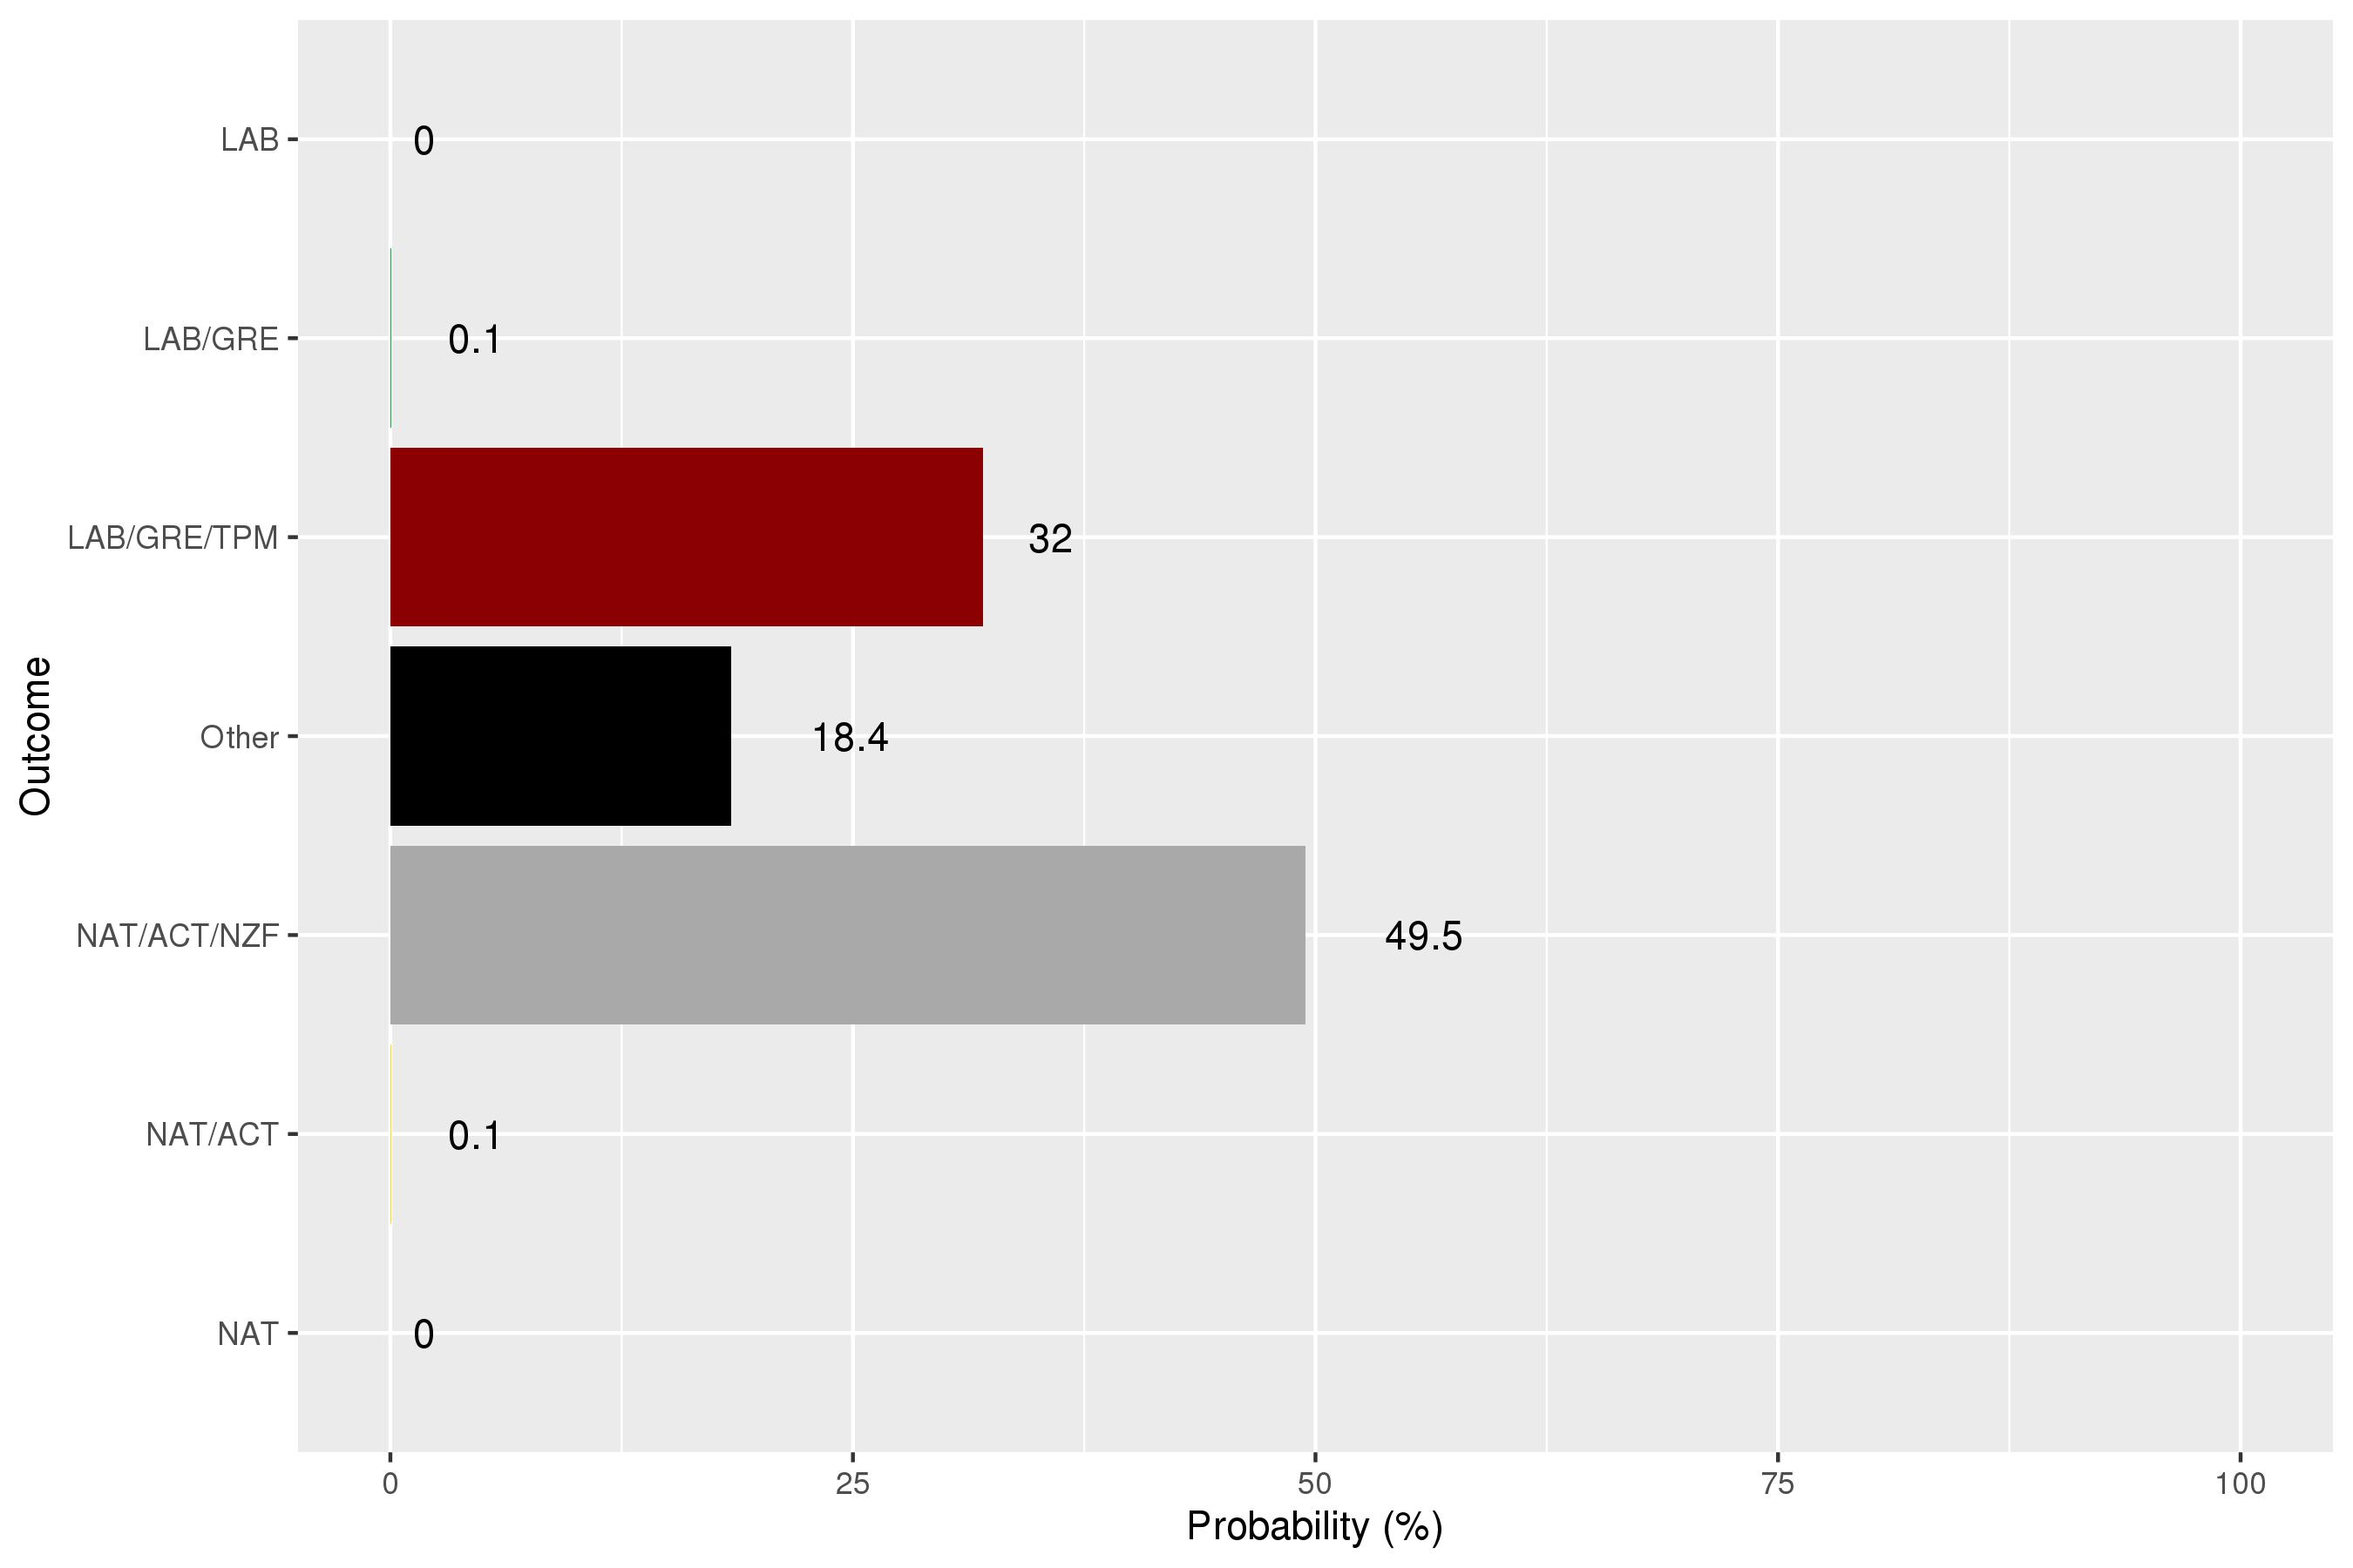
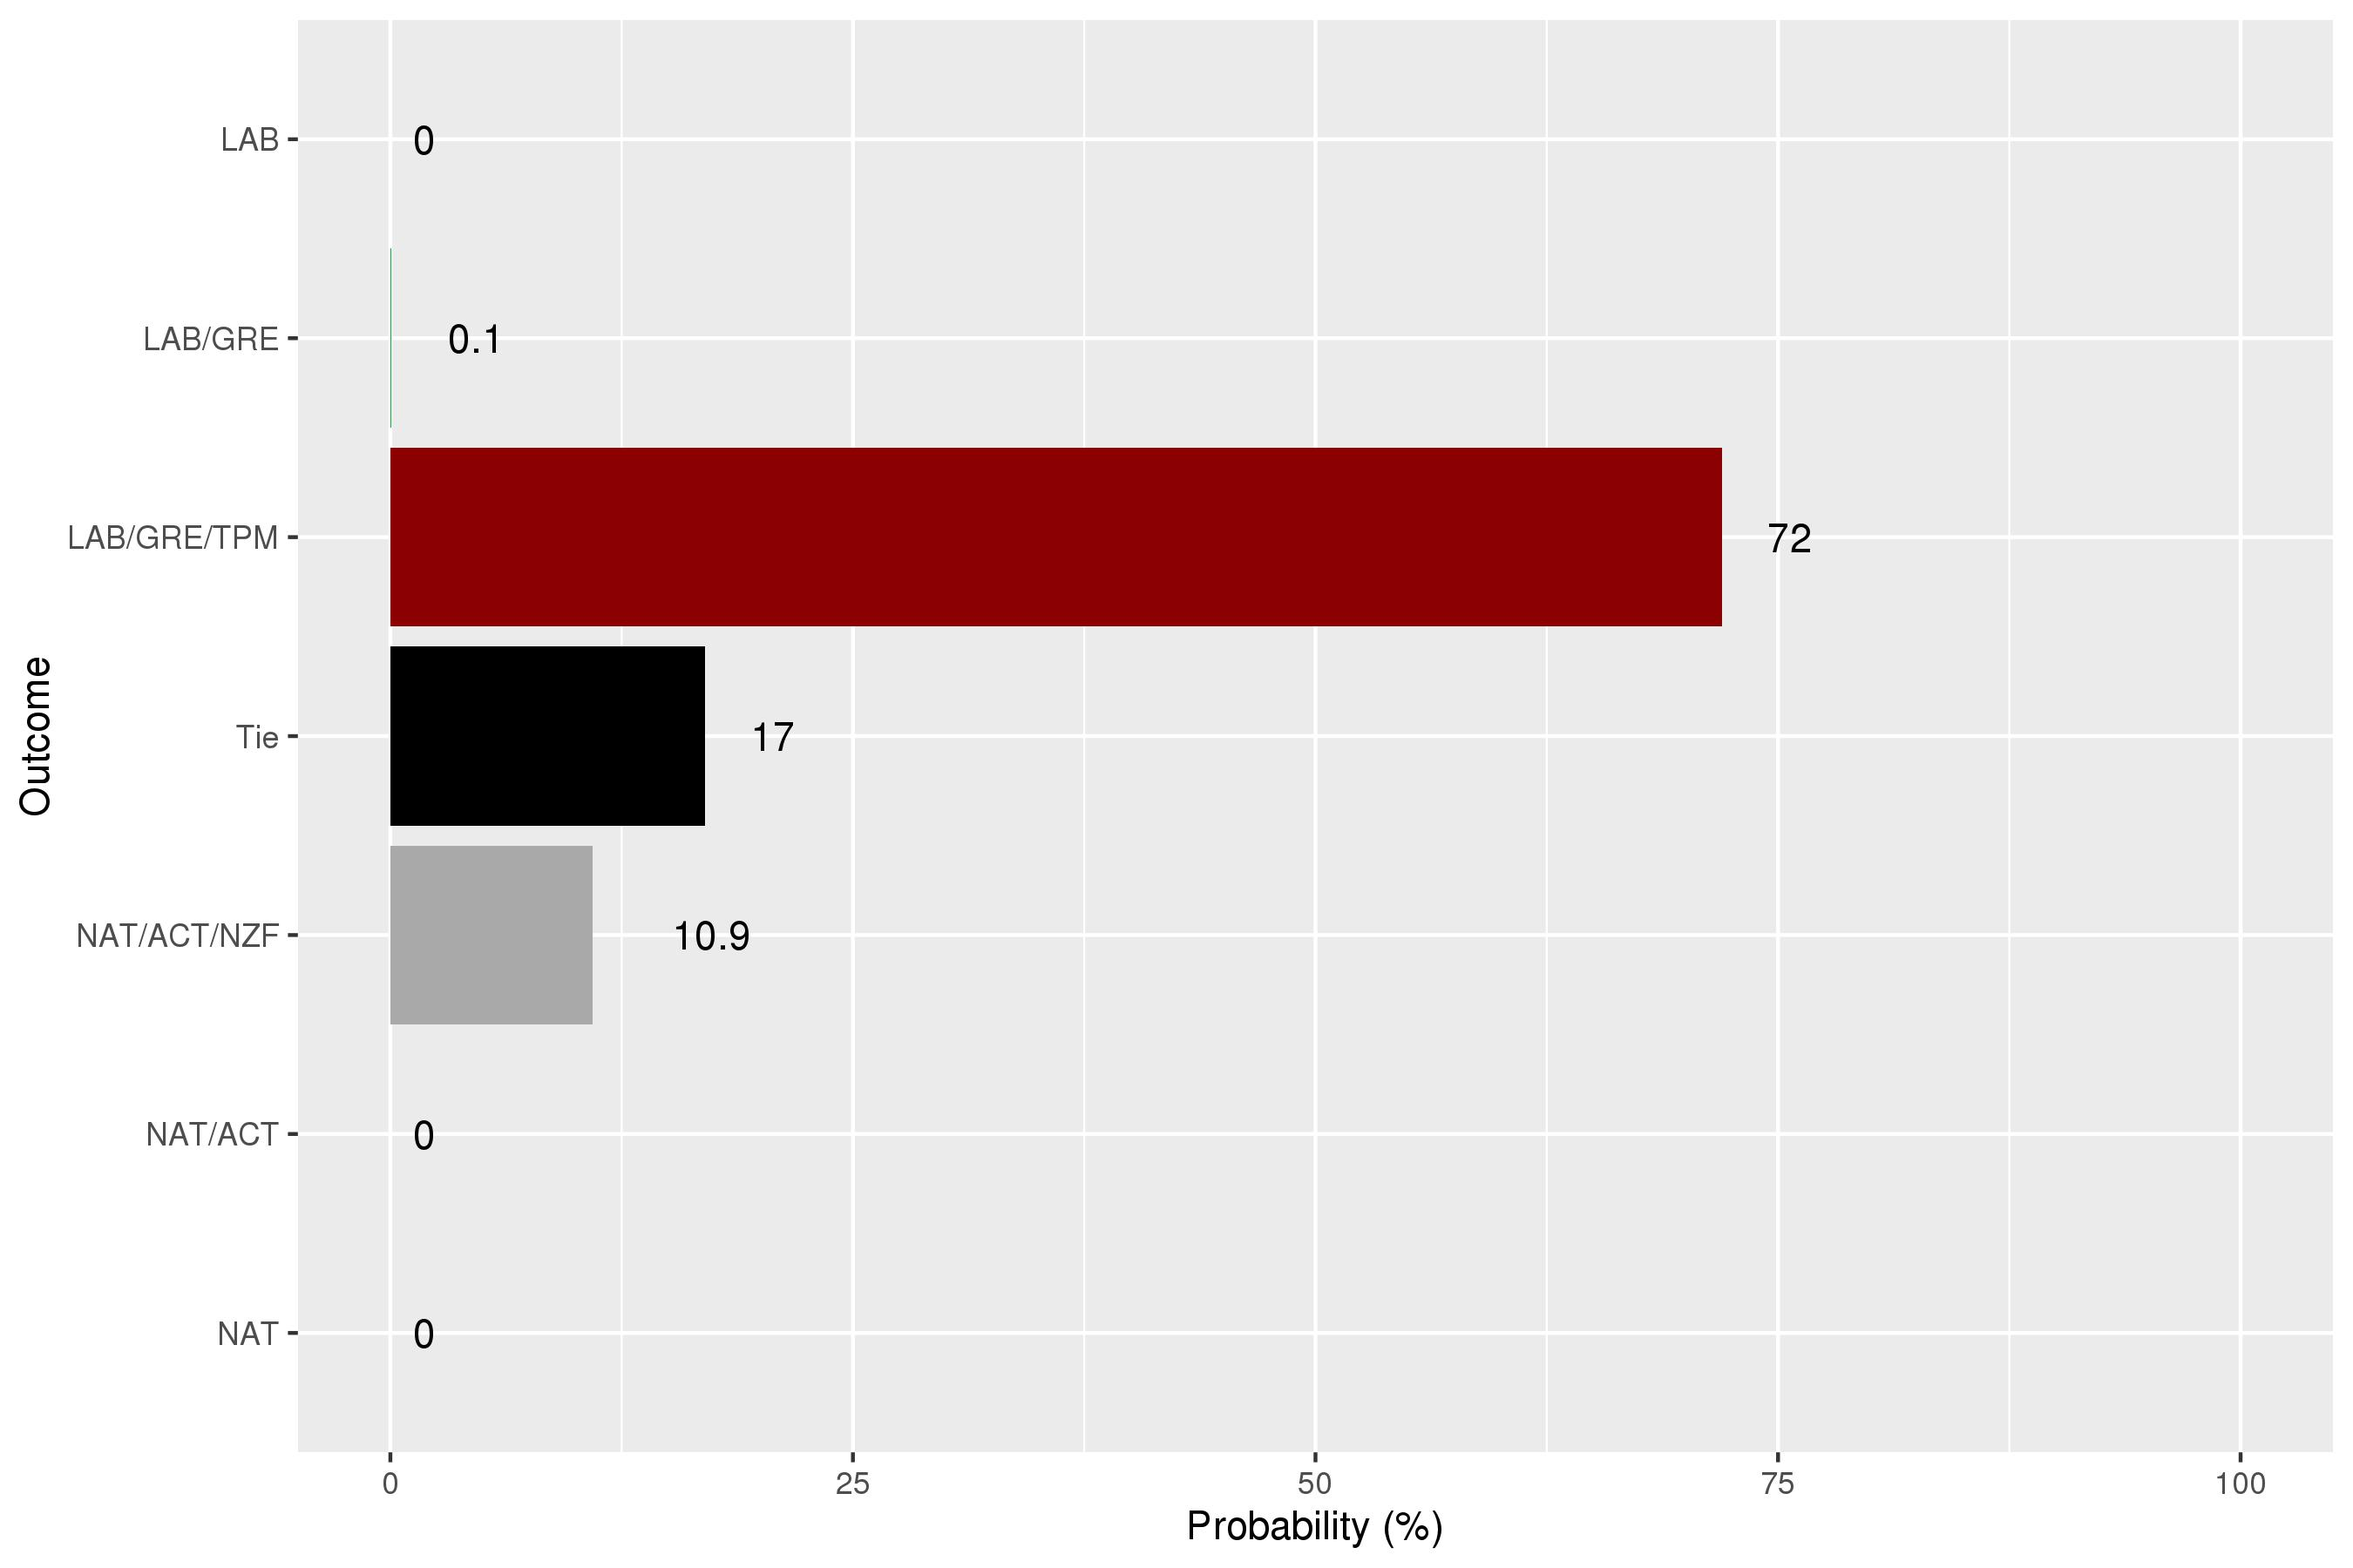
NZ March 2025 update

diff --git a/nederland.html b/nederland.html
@@ -47,7 +47,7 @@
 	<p><i>Last Updated: 25 February 2025</i></p>
 
 
-	<h2> Party Support over Time</h2>
+	<h2> Party Support since Last Election</h2>
 
 	<p><img class="alignnone size-full" src="NLgraph1.jpeg" alt="Parties" width="75%" height="75%" /></p>
 
@@ -61,17 +61,17 @@
 
 
 	<h2> Government Support</h2>
-	<p>Votes for the four government parties PVV,VVD,NSC and BBB by municipality</p>
+	<p>Votes for the four government parties PVV, VVD, NSC and BBB by municipality</p>
 	<p><img class="alignnone size-full" src="NLmap2.png" alt="Government versus Opposition" width="75%" height="75%" /></p>
 
-	<h2>Government Coalitions</h2>
-        <p> Below are the ten coalitions with the highest probability of being possible-see the <a href="methodology.html">Methodology page</a> for more details</p>
+	<h2>Government Formation</h2>
+        <p> Below are the ten coalitions with the highest probability of being feasible-see the <a href="methodology.html">Methodology page</a> for more details</p>
 	<iframe src="https://docs.google.com/spreadsheets/d/e/2PACX-1vRoXWV-dumjdo9mipO-QKChEmsQr6U2n9PL16MxdMiZ4Ri1Di1tBl1tHbuZQUN-nK9jxNiVsn00RjHz/pubhtml?widget=false&amp;headers=false" width=700 height=350></iframe>
 
         <h2>Interactive Map</h2>
 
         <iframe src="nlkaart.html" width="900" height = "900"></iframe>
-        <p><i>Source for gemeente boundaries: cbsodataR package</i></p>
+        <p><i>Source for gemeente boundaries: <a href="https://cran.r-project.org/web/packages/cbsodataR/index.html">cbsodataR</a> package</i></p>
 
     </div>
 </body>

diff --git a/nz.html b/nz.html
@@ -48,13 +48,17 @@
 	<p><i>Last Updated: 26 February 2025</i></p>
 
 
-	<h2> Party Support over Time</h2>
+	<h2> Party Support since Last Election</h2>
 
 	<p><img class="alignnone size-full" src="NZgraph1.jpeg" alt="Parties" width="75%" height="75%" /></p>
 
 	<h2> Government Formation</h2>
-
+        <h3> Probabilities of Different Outcomes</h3>
+        <p> We consider seven possible outcomes for government formation, from Labour winning a majority on its own, to National doing the same.
+         Obviously other coalitions are plausible, e.g. National could pick NZF over ACT if it could choose between them, but these seven seem most plausible at this time. Every possible election result, assuming no other parties win seats and that National or Labour will lead the next government, falls into exactly one of these outcomes.</p>
 	<p><img class="alignnone size-full" src="NZgraph2.jpeg" alt="Goverment Outcomes" width="75%" height="75%" /></p>
+        <h3> Size of the Government's Majority</h3>
+        <p> The National-ACT-NZF coalition government is defending a majority of 13 (68-55), as indicated by the dashed blue line.</p>
 	<p><img class="alignnone size-full" src="NZgraph3.jpeg" alt="Goverment Majorities" width="75%" height="75%" /></p>
 
 	<h2> Electorate Projections</h2>
